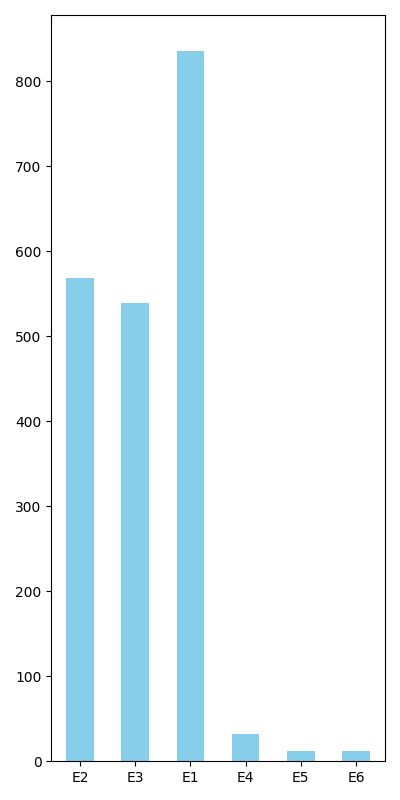
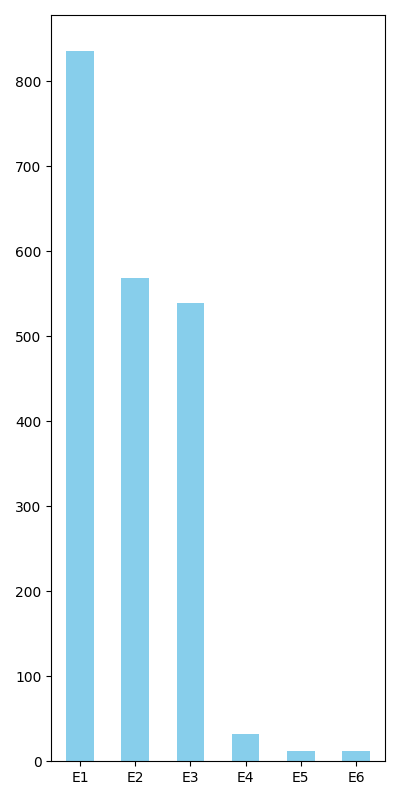
ignore...

Changed region(s): [[0.42, 0.0625, 0.51, 0.4062], [0.15, 0.0625, 0.24, 0.375], [0.3, 0.3438, 0.39, 0.4062]]

diff --git a/app.py b/app.py
@@ -6,7 +6,6 @@ import numpy as np
 def getSortedTime(key):                     #Function for key
     key=str(key)
     key=key.strip()
-    # flash(f"printing {key.split(' ')}")
     if len(key.split(" "))==5:
         Day,Month,Date,Time,Year = key.split(" ")
     elif len(key.split(" "))==4:
@@ -68,24 +67,24 @@ def upload_logs():                          #change to get multiple files
 # def display_logs():
 #     return render_template('display.html')
 
-@app.route('/display_logs/<filename>')
+@app.route('/display_logs/<filename>',methods=['GET','POST'])
 def display_log(filename):                  #change to add filters and sorts by also calling a bash script
     filepath=os.path.join(PROCESSED,filename)
     log=[]
     columns=['LineId','Time','Level','Content','EventId','EventTemplate']
-    # from_date=request.form.get('from')
-    # to_date=request.form.get('to')
-    # sort_by=request.form.get('sort_by')
-    # result=subprocess.run(
-    #     ['bash','bash_scripts/sorted_or_filtered.sh',filepath,from_date,to_date,sort_by],
-    #     capture_output=True,text=True
-    #     )
-    # if result.returncode !=0:
-    #     flash('Problem with sorting/filtering the file')
-    #     return redirect(url_for('landing'))
+    from_date=request.form.get('from')
+    to_date=request.form.get('to')
+    sort_by=request.form.get('sort_by')
+    result=subprocess.run(
+        ['bash','bash_scripts/sorted_or_filtered.sh',filepath,from_date,to_date,sort_by],
+       capture_output=True,text=True
+        )
+    if result.returncode !=0:
+        flash('Problem with sorting/filtering the file')
+        return redirect(url_for('landing'))
     try:
-        # outputfile=result.stdout.strip()
-        with open(filepath,'r') as file:             
+        outputfile=result.stdout.strip()
+        with open(outputfile,'r') as file:             
             for idx, line in enumerate(file):
                 if idx == 0:
                     continue
